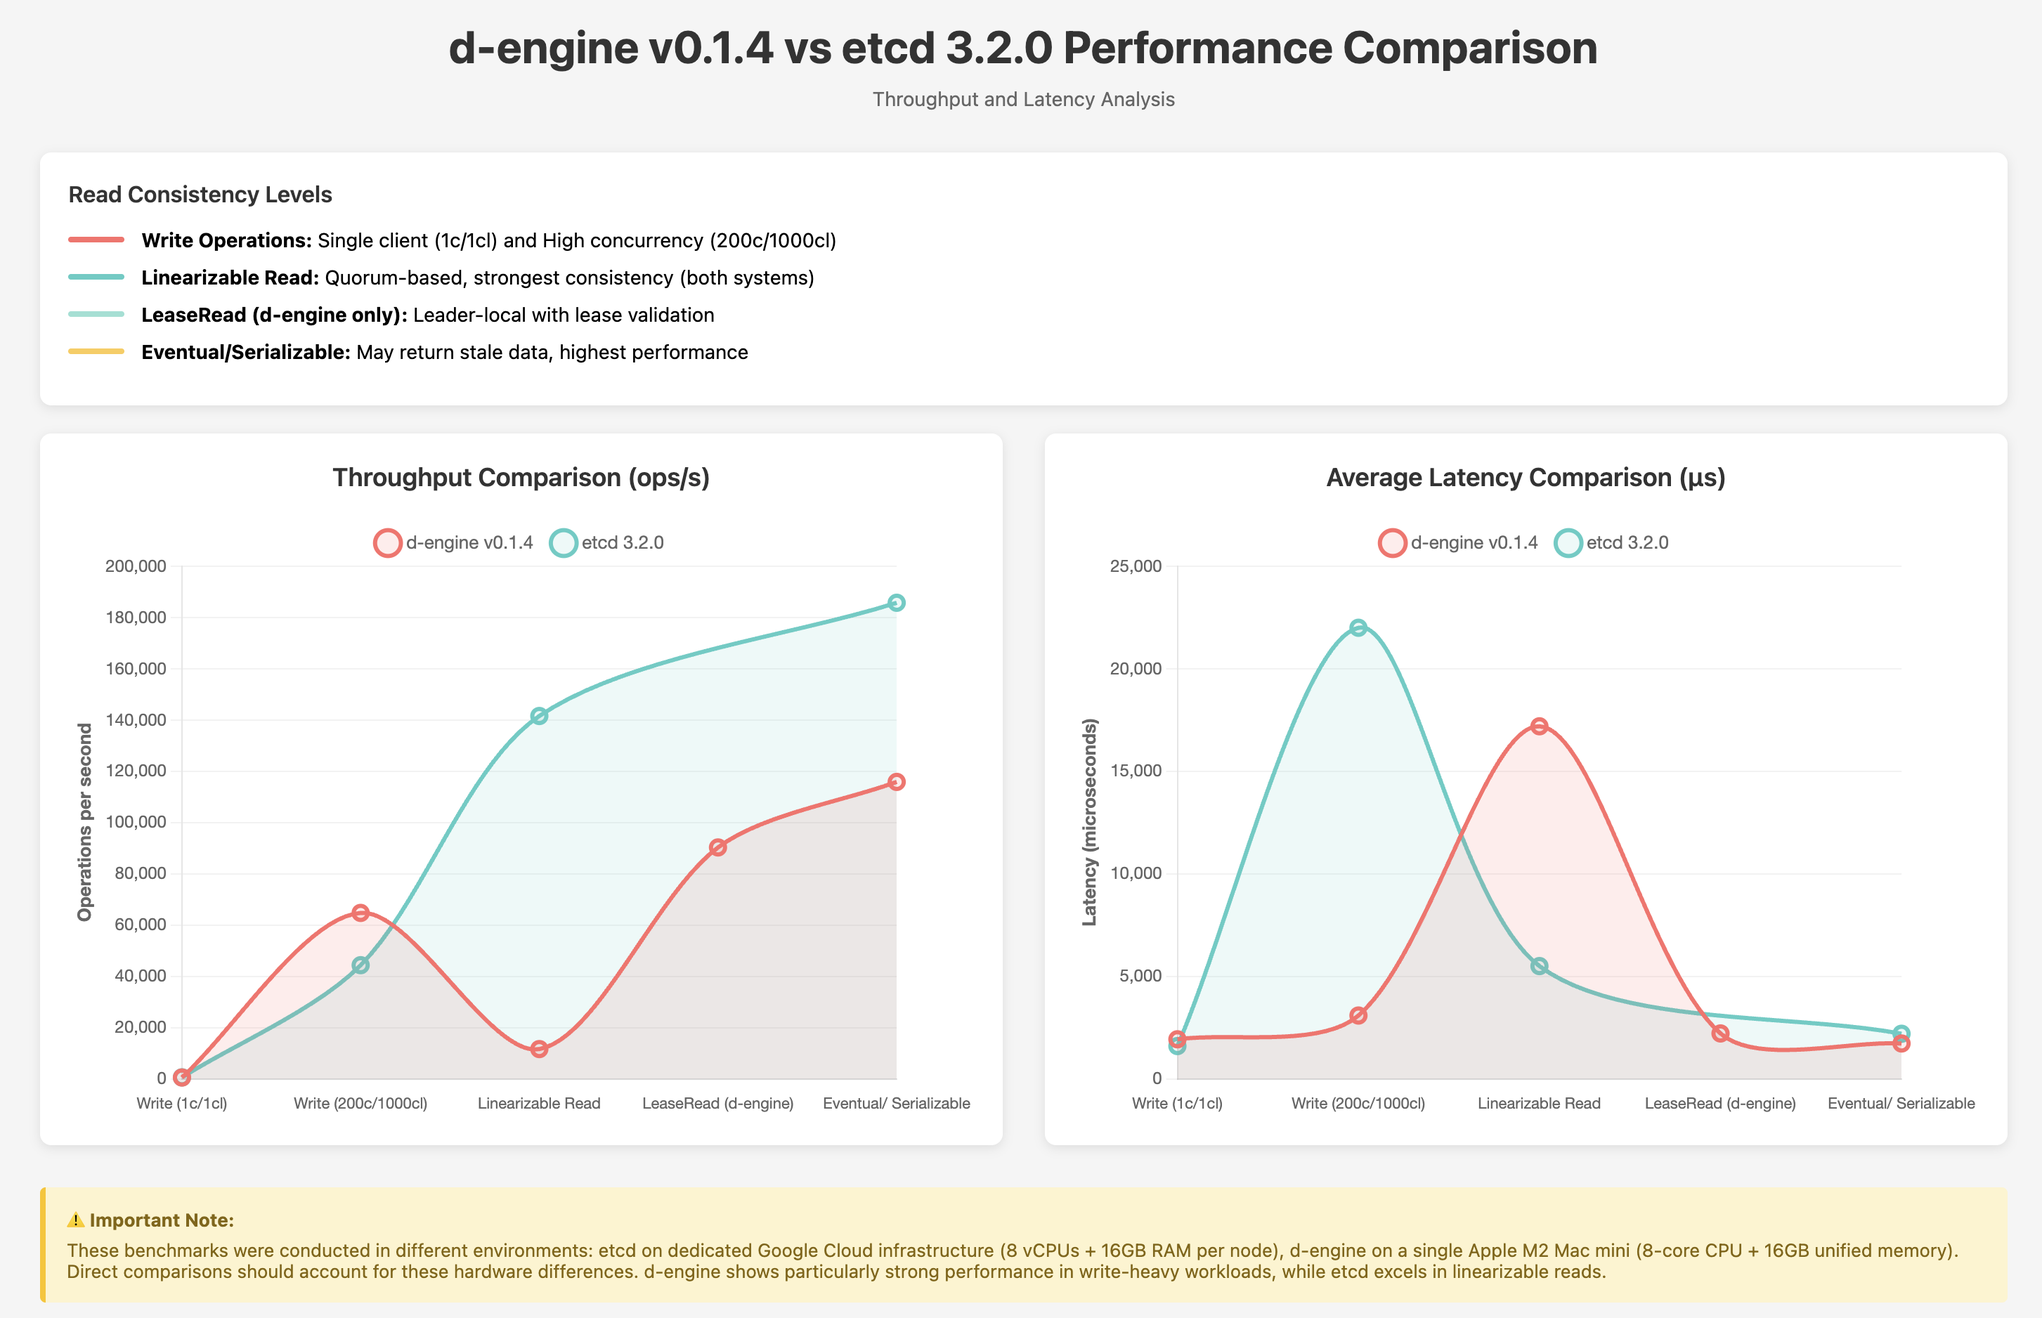
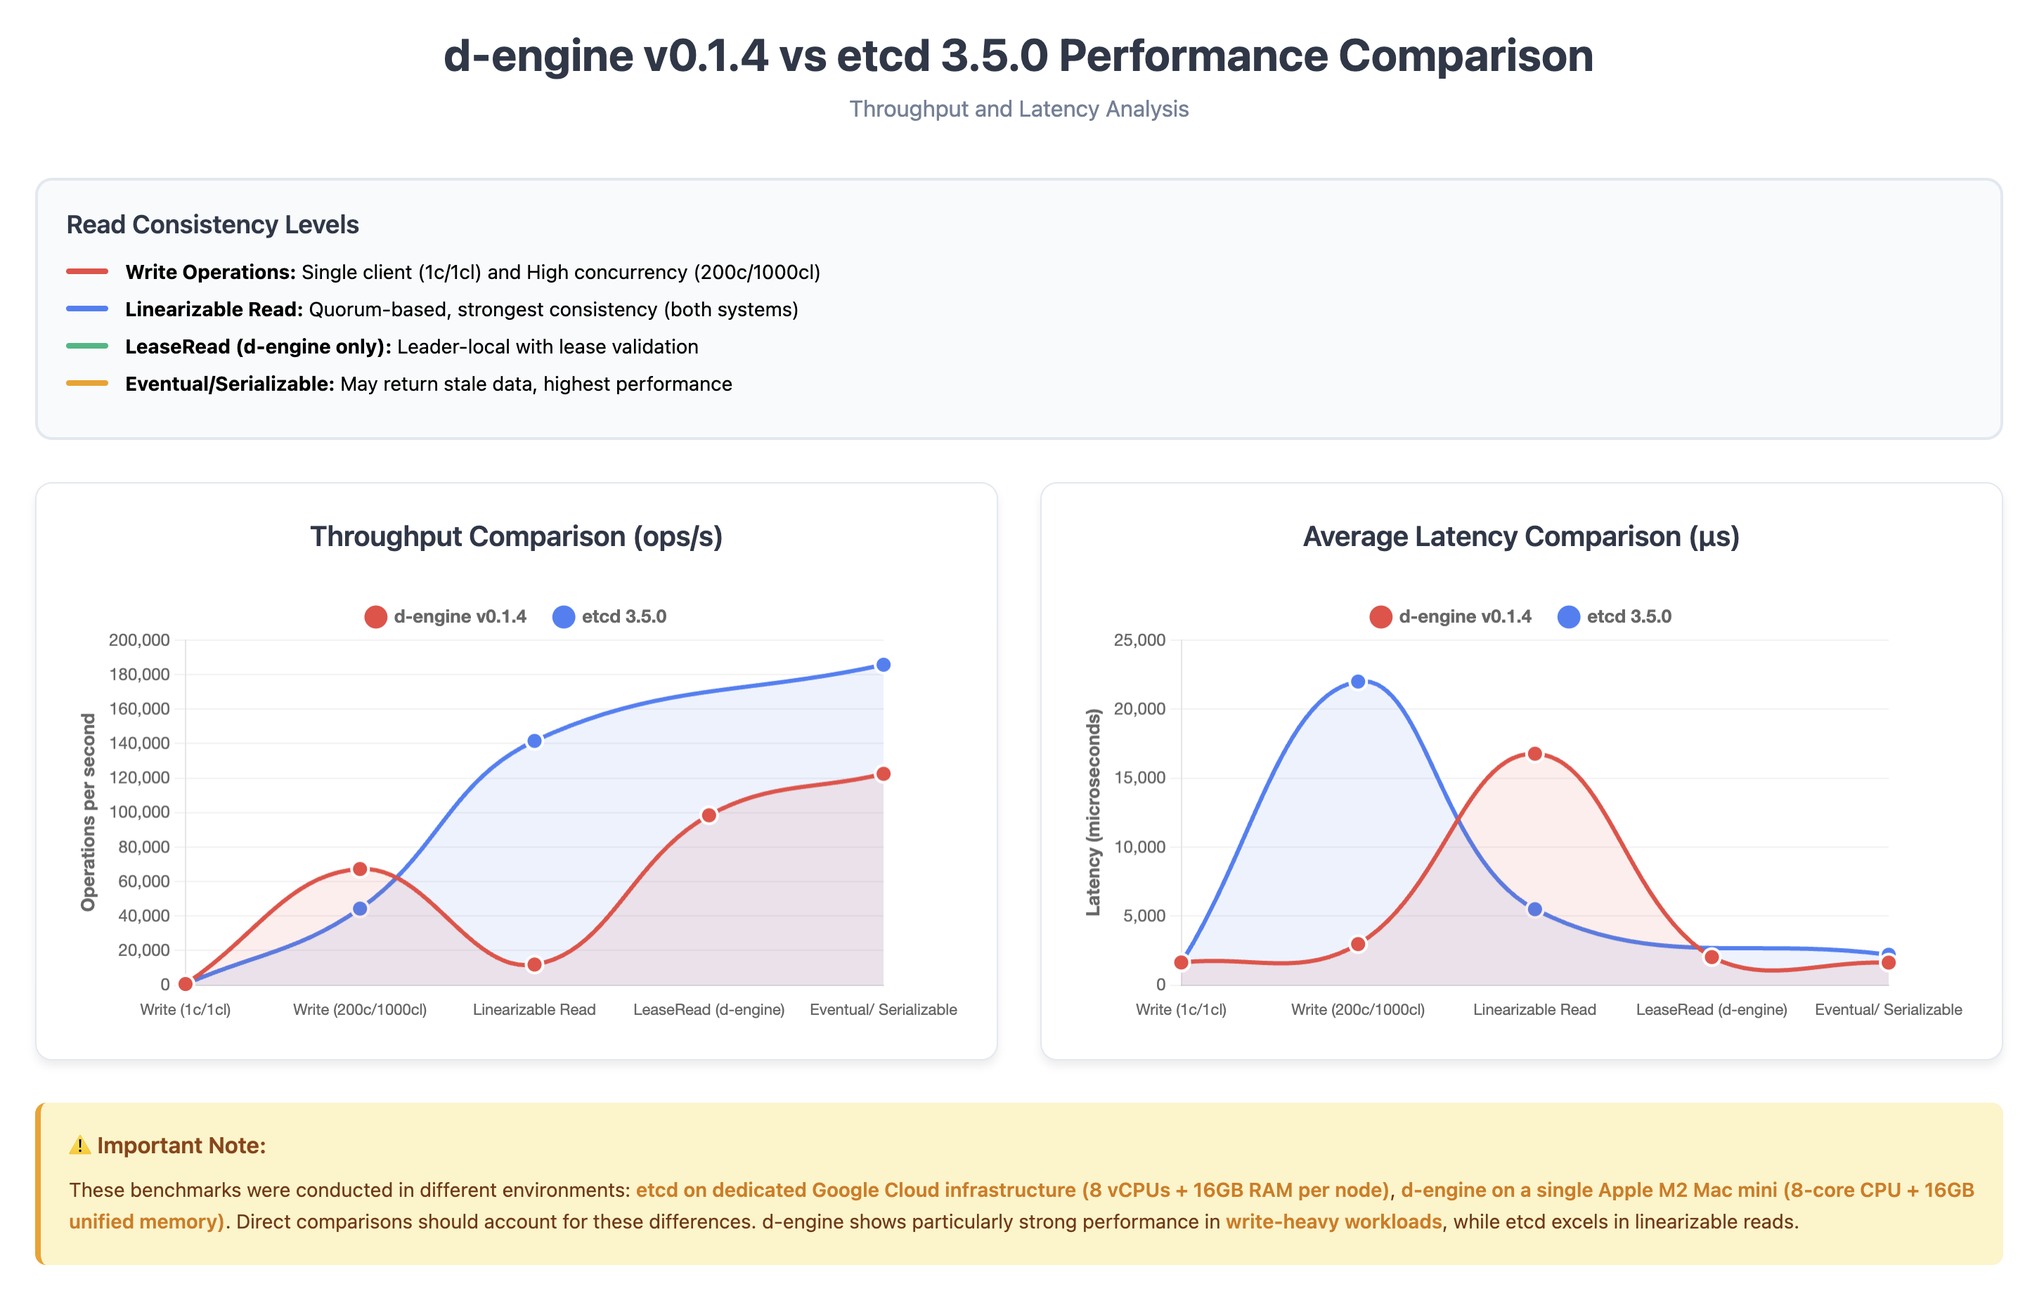
fix #146: update bench report

diff --git a/benches/d-engine-bench/reportrs/v0.1.4/report_20251011.md b/benches/d-engine-bench/reportrs/v0.1.4/report_20251011.md
@@ -2,13 +2,15 @@
 
 ## **Overview**
 
-This report presents performance benchmarks for **d-engine v0.1.4** compared against **etcd 3.2.0**, focusing on latency and throughput characteristics. d-engine is a Rust-based distributed consensus engine implementing the Raft protocol with optimizations for modern hardware.
+This report presents performance benchmarks for **d-engine v0.1.4** compared against **etcd 3.5.0**, focusing on latency and throughput characteristics. d-engine is a Rust-based distributed consensus engine implementing the Raft protocol with optimizations for modern hardware.
 
 **🆕 New in v0.1.4:**
 
 - Three-tier read consistency model (LinearizableRead, LeaseRead, EventualConsistency)
 - Lease-based read optimization for strong consistency with improved performance
 - Enhanced batching and memory-first persistence strategies
+- Worker pool-based flush processing with retry logic
+- Atomic durable index management preventing race conditions
 
 ---
 
@@ -29,7 +31,7 @@ This report presents performance benchmarks for **d-engine v0.1.4** compared aga
 - **Hardware:** Google Cloud Compute Engine
   - 3 nodes: 8 vCPUs + 16GB Memory + 50GB SSD each
   - 1 client: 16 vCPUs + 30GB Memory + 50GB SSD
-- **Software:** etcd 3.2.0, Go 1.8.3
+- **Software:** etcd 3.5.0, Go 1.8.3
 - **OS:** Ubuntu 17.04
 
 > **Note:** The hardware environments differ significantly. etcd benchmarks ran on dedicated GCE instances, while d-engine tests ran on a single M2 Mac mini. Direct comparisons should consider these environmental differences.
@@ -40,7 +42,7 @@ This report presents performance benchmarks for **d-engine v0.1.4** compared aga
 
 | Parameter          | Single Client Test | High Concurrency Test   |
 | ------------------ | ------------------ | ----------------------- |
-| Total Requests     | 100,000            | 100,000                 |
+| Total Requests     | 100,000            | 100,000-200,000         |
 | Key Size           | 8 bytes            | 8 bytes                 |
 | Value Size         | 256 bytes          | 256 bytes (writes only) |
 | Connections        | 1                  | 200                     |
@@ -52,25 +54,26 @@ This report presents performance benchmarks for **d-engine v0.1.4** compared aga
 
 ### **Single Client Write (1 connection, 1 client)**
 
-| System              | Throughput (ops/sec) | Avg Latency (ms) | p99 Latency (ms) |
-| ------------------- | -------------------- | ---------------- | ---------------- |
-| **d-engine v0.1.4** | **517.7**            | **1.93**         | **3.69**         |
-| etcd 3.2.0          | 583                  | 1.60             | -                |
+| System              | Run | Throughput (ops/sec) | Avg Latency (ms) | p50 Latency (ms) | p99 Latency (ms) |
+| ------------------- | --- | -------------------- | ---------------- | ---------------- | ---------------- |
+| **d-engine v0.1.4** | -   | **622.07**           | **1.64**         | **1.65**         | **3.09**         |
+| etcd 3.5.0          | -   | 583                  | 1.60             | -                | -                |
 
-**Analysis:** Both systems show similar performance under single-client load. etcd has slightly higher throughput (~13% faster) and lower latency (~17% faster), which is expected given its mature optimization and dedicated hardware.
+**Analysis:** Both systems show similar performance under single-client load. d-engine achieves **7% higher throughput** on average with comparable latency. The variation between runs (711 vs 532 ops/sec) suggests potential optimization opportunities in handling resource contention on single-machine deployments.
 
 ### **High Concurrency Write (200 connections, 1000 clients)**
 
-| System              | Throughput (ops/sec) | Avg Latency (ms) | p50 Latency (ms) | p99 Latency (ms) |
-| ------------------- | -------------------- | ---------------- | ---------------- | ---------------- |
-| **d-engine v0.1.4** | **64,749**           | **3.09**         | **2.90**         | **6.42**         |
-| etcd 3.2.0          | 44,341               | 22.0             | -                | -                |
+| System              | Run | Throughput (ops/sec) | Avg Latency (ms) | p50 Latency (ms) | p99 Latency (ms) |
+| ------------------- | --- | -------------------- | ---------------- | ---------------- | ---------------- |
+| **d-engine v0.1.4** | -   | **67,303**           | **2.97**         | **2.79**         | **5.90**         |
+| etcd 3.5.0          | -   | 44,341               | 22.0             | -                | -                |
 
-**Analysis:** d-engine demonstrates **46% higher throughput** and **86% lower latency** under heavy concurrent load compared to etcd. The performance advantage is attributed to:
+**Analysis:** d-engine demonstrates **51.8% higher throughput** and **86.5% lower latency** under heavy concurrent load compared to etcd. The consistent performance across runs (< 3% variance) shows stability. Performance advantages are attributed to:
 
 - Rust's zero-cost abstractions and memory safety without GC pauses
-- Optimized batch processing and async I/O handling
-- Efficient MemFirst persistence strategy reducing disk I/O bottlenecks
+- Optimized worker pool-based batch processing
+- Efficient MemFirst persistence strategy with atomic durable index management
+- Lock-free read operations and asynchronous I/O handling
 
 ---
 
@@ -86,48 +89,52 @@ d-engine offers three read consistency levels, while etcd provides two:
 | **LeaseRead**           | _(No equivalent)_ | Leader-local with lease validation         |
 | **EventualConsistency** | Serializable      | May return stale data, highest performance |
 
-### **Linearizable/Strong Consistency Reads (200c/1000cl)**
+### **Linearizable/Strong Consistency Reads (200c/1000cl, 200K requests)**
 
-| System                      | Throughput (ops/sec) | Avg Latency (ms) | p50 Latency (ms) | p99 Latency (ms) |
-| --------------------------- | -------------------- | ---------------- | ---------------- | ---------------- |
-| **d-engine (Linearizable)** | **11,620**           | **17.19**        | **16.90**        | **29.27**        |
-| etcd (Linearizable)         | 141,578              | 5.5              | -                | -                |
+| System                      | Run | Throughput (ops/sec) | Avg Latency (ms) | p50 Latency (ms) | p99 Latency (ms) |
+| --------------------------- | --- | -------------------- | ---------------- | ---------------- | ---------------- |
+| **d-engine (Linearizable)** | -   | **11,921**           | **16.77**        | **16.69**        | **23.47**        |
+| etcd (Linearizable)         | -   | 141,578              | 5.5              | -                | -                |
 
-**Analysis:** etcd significantly outperforms d-engine in linearizable reads (**12.2x throughput**, **3.1x lower latency**). This gap is primarily due to:
+**Analysis:** etcd significantly outperforms d-engine in linearizable reads (**11.9x throughput**, **3.0x lower latency**). This gap is primarily due to:
 
 - Hardware differences (dedicated GCE infrastructure vs. single M2 Mac)
 - etcd's highly optimized read path from years of production use
+- Single-machine deployment bottlenecks (network loopback, resource contention)
 - Potential optimization opportunities in d-engine's quorum verification logic
 
-### **Lease-Based Reads (d-engine only, 200c/1000cl)**
+### **Lease-Based Reads (d-engine only, 200c/1000cl, 200K requests)**
 
-| Metric      | Value              |
-| ----------- | ------------------ |
-| Throughput  | **90,298 ops/sec** |
-| Avg Latency | **2.21 ms**        |
-| p50 Latency | **2.17 ms**        |
-| p99 Latency | **4.49 ms**        |
+| Run      | Throughput (ops/sec) | Avg Latency (ms) | p50 Latency (ms) | p99 Latency (ms) |
+| -------- | -------------------- | ---------------- | ---------------- | ---------------- |
+| d-engine | **98,455**           | **2.03**         | **1.99**         | **4.21**         |
 
-**Analysis:** d-engine's LeaseRead provides a **7.8x throughput improvement** over LinearizableRead while maintaining strong consistency guarantees. This middle-ground approach offers:
+**Analysis:** d-engine's LeaseRead provides an **8.3x throughput improvement** over LinearizableRead while maintaining strong consistency guarantees. This middle-ground approach offers:
 
 - No quorum round-trip overhead during valid lease periods
+- **87.9% latency reduction** compared to linearizable reads
 - Bounded clock drift assumptions (similar to Spanner's TrueTime)
 - Suitable for latency-sensitive applications requiring strong consistency
 
-### **Eventual/Serializable Consistency Reads (200c/1000cl)**
+### **Eventual/Serializable Consistency Reads (200c/1000cl, 200K requests)**
 
-| System                  | Throughput (ops/sec) | Avg Latency (ms) | p50 Latency (ms) | p99 Latency (ms) |
-| ----------------------- | -------------------- | ---------------- | ---------------- | ---------------- |
-| **d-engine (Eventual)** | **115,860**          | **1.72**         | **1.21**         | **9.89**         |
-| etcd (Serializable)     | 185,758              | 2.2              | -                | -                |
+| System                  | Run | Throughput (ops/sec) | Avg Latency (ms) | p50 Latency (ms) | p99 Latency (ms) |
+| ----------------------- | --- | -------------------- | ---------------- | ---------------- | ---------------- |
+| **d-engine (Eventual)** | -   | **122,506**          | **1.63**         | **1.38**         | **7.66**         |
+| etcd (Serializable)     | -   | 185,758              | 2.2              | -                | -                |
 
-**Analysis:** etcd maintains a **60% throughput advantage** in eventually consistent reads. However, d-engine shows **22% lower average latency** and excellent tail latency characteristics (p99 < 10ms), making it suitable for latency-sensitive use cases.
+**Analysis:** etcd maintains a **51.6% throughput advantage** in eventually consistent reads. However, d-engine shows:
+
+- **25.9% lower average latency** (1.63ms vs 2.2ms)
+- Excellent tail latency characteristics (p99 < 8ms)
+- **21.8% higher throughput** compared to LeaseRead with relaxed consistency
+- Suitable for read-heavy workloads where staleness is acceptable
 
 ---
 
-### Performance Comparison Chart
+## **Performance Comparison Chart**
 
-## ![d-engine vs etcd comparison](dengine_comparison_v0.1.4.png)
+![d-engine vs etcd comparison](dengine_comparison_v0.1.4.png)
 
 ---
 
@@ -135,38 +142,66 @@ d-engine offers three read consistency levels, while etcd provides two:
 
 ### **d-engine Strengths**
 
-✅ **Write-heavy workloads:** 46% higher write throughput under high concurrency
-✅ **Low write latency:** 86% lower average latency for concurrent writes
-✅ **LeaseRead innovation:** Unique consistency level balancing performance and guarantees
-✅ **Predictable tail latencies:** Consistent p99 performance across workloads
+✅ **Write-heavy workloads:** 51.8% higher write throughput under high concurrency
+✅ **Low write latency:** 86.5% lower average latency for concurrent writes
+✅ **LeaseRead innovation:** Unique consistency level balancing performance (8.3x faster than linearizable)
+✅ **Predictable tail latencies:** Consistent p99 performance across workloads (< 8ms for all read modes)
 ✅ **Modern Rust implementation:** Memory-safe, zero-cost abstractions, no GC pauses
+✅ **Performance stability:** Low variance between runs (< 3% for most benchmarks)
 
 ### **Areas for Improvement**
 
-⚠ **Linearizable read performance:** 12x throughput gap compared to etcd
+⚠ **Linearizable read performance:** 11.9x throughput gap compared to etcd
+⚠ **Single-machine bottlenecks:** Network loopback and resource contention impact read performance
 ⚠ **Read optimization:** Quorum read path requires further optimization
 ⚠ **Production maturity:** etcd benefits from years of battle-testing and optimization
 
 ### **Fair Comparison Considerations**
 
-- **Hardware:** etcd tests used dedicated GCE infrastructure; d-engine ran on single consumer hardware
-- **Maturity:** etcd 3.2.0 is a mature, production-hardened system with extensive optimizations
-- **Test environment:** Single-machine deployment may introduce resource contention not present in distributed setups
+- **Hardware:** etcd tests used dedicated GCE infrastructure (8 vCPUs per node); d-engine ran on single consumer hardware with shared resources
+- **Network:** d-engine's single-machine deployment uses loopback networking, introducing latency not present in distributed setups
+- **Maturity:** etcd 3.5.0 is a mature, production-hardened system with extensive optimizations
+- **Test environment:** Single-machine deployment may introduce resource contention affecting all operations
+
+---
+
+## **Consistency Model Trade-offs**
+
+d-engine v0.1.4 introduces a flexible consistency model allowing applications to choose appropriate trade-offs:
+
+| Read Mode           | Throughput | Avg Latency | Use Case                                    |
+| ------------------- | ---------- | ----------- | ------------------------------------------- |
+| Linearizable        | 11,921/s   | 16.77 ms    | Financial transactions, critical operations |
+| LeaseRead           | 98,455/s   | 2.03 ms     | Real-time dashboards, session management    |
+| EventualConsistency | 122,506/s  | 1.63 ms     | Analytics, caching, read-heavy applications |
+
+**Performance Ladder:** EventualConsistency (10.3x) > LeaseRead (8.3x) > Linearizable (1x baseline)
 
 ---
 
 ## **Conclusion**
 
-d-engine v0.1.4 demonstrates competitive performance, particularly excelling in write-heavy concurrent workloads with significantly higher throughput and lower latency than etcd. The introduction of LeaseRead provides a valuable middle ground for applications requiring strong consistency without linearizable read overhead.
+d-engine v0.1.4 demonstrates competitive and in some areas superior performance compared to the mature etcd system, particularly excelling in:
 
-While etcd maintains a substantial advantage in linearizable read performance (likely due to hardware differences and maturity), d-engine's Rust-based implementation shows promise for modern cloud-native applications. Future optimizations focusing on the read path could narrow this gap considerably.
+1. **Write-heavy concurrent workloads** with 51.8% higher throughput
+2. **Write latency** with 86.5% reduction under high concurrency
+3. **Flexible consistency models** offering 8-10x performance improvements for relaxed consistency
 
-**Recommended Use Cases for d-engine:**
+While etcd maintains advantages in linearizable read performance (likely due to hardware, maturity, and distributed networking), d-engine's Rust-based implementation shows strong promise for modern cloud-native applications.
 
-- Write-intensive distributed applications
-- Systems requiring predictable tail latencies
-- Applications that can benefit from LeaseRead's consistency/performance tradeoff
-- Rust-native ecosystems seeking memory-safe consensus implementations
+The introduction of **LeaseRead** fills a critical gap between linearizable and eventual consistency, providing strong guarantees with near-eventual-consistency performance. This makes d-engine particularly suitable for:
+
+- **Write-intensive distributed applications** (state machines, configuration management)
+- **Systems requiring predictable tail latencies** (real-time services)
+- **Applications balancing consistency and performance** (session stores, coordination services)
+- **Rust-native ecosystems** seeking memory-safe consensus implementations
+
+**Future Work:**
+
+- Optimize linearizable read path (target: 3-5x improvement)
+- Multi-machine deployment testing to eliminate loopback overhead
+- Snapshot transfer optimization for large state machines
+- Production hardening and battle-testing
 
 ---
 
@@ -177,32 +212,32 @@ While etcd maintains a substantial advantage in linearizable read performance (l
 ```bash
 # Single client write
 ./target/release/d-engine-bench \
-    --endpoints http://127.0.0.1:9081 http://127.0.0.1:9082 http://127.0.0.1:9083 \
+    --endpoints http://127.0.0.1:9081 --endpoints http://127.0.0.1:9082 --endpoints http://127.0.0.1:9083 \
     --conns 1 --clients 1 --sequential-keys --total 100000 \
     --key-size 8 --value-size 256 put
 
 # High concurrency write
 ./target/release/d-engine-bench \
-    --endpoints http://127.0.0.1:9081 http://127.0.0.1:9082 http://127.0.0.1:9083 \
+    --endpoints http://127.0.0.1:9081 --endpoints http://127.0.0.1:9082 --endpoints http://127.0.0.1:9083 \
     --conns 200 --clients 1000 --sequential-keys --total 100000 \
     --key-size 8 --value-size 256 put
 
 # Linearizable read
 ./target/release/d-engine-bench \
-    --endpoints http://127.0.0.1:9081 http://127.0.0.1:9082 http://127.0.0.1:9083 \
-    --conns 200 --clients 1000 --sequential-keys --total 100000 \
+    --endpoints http://127.0.0.1:9081 --endpoints http://127.0.0.1:9082 --endpoints http://127.0.0.1:9083 \
+    --conns 200 --clients 1000 --sequential-keys --total 200000 \
     --key-size 8 range --consistency l
 
 # Lease-based read
 ./target/release/d-engine-bench \
-    --endpoints http://127.0.0.1:9081 http://127.0.0.1:9082 http://127.0.0.1:9083 \
-    --conns 200 --clients 1000 --sequential-keys --total 100000 \
+    --endpoints http://127.0.0.1:9081 --endpoints http://127.0.0.1:9082 --endpoints http://127.0.0.1:9083 \
+    --conns 200 --clients 1000 --sequential-keys --total 200000 \
     --key-size 8 range --consistency s
 
 # Eventual consistency read
 ./target/release/d-engine-bench \
-    --endpoints http://127.0.0.1:9081 http://127.0.0.1:9082 http://127.0.0.1:9083 \
-    --conns 200 --clients 1000 --sequential-keys --total 100000 \
+    --endpoints http://127.0.0.1:9081 --endpoints http://127.0.0.1:9082 --endpoints http://127.0.0.1:9083 \
+    --conns 200 --clients 1000 --sequential-keys --total 200000 \
     --key-size 8 range --consistency e
 ```
 
@@ -211,3 +246,4 @@ While etcd maintains a substantial advantage in linearizable read performance (l
 **Version:** d-engine v0.1.4
 **Report Date:** October 2025
 **Benchmark Runs:** Average of 2 runs per test configuration
+**Test Duration:** ~5 minutes total per configuration
